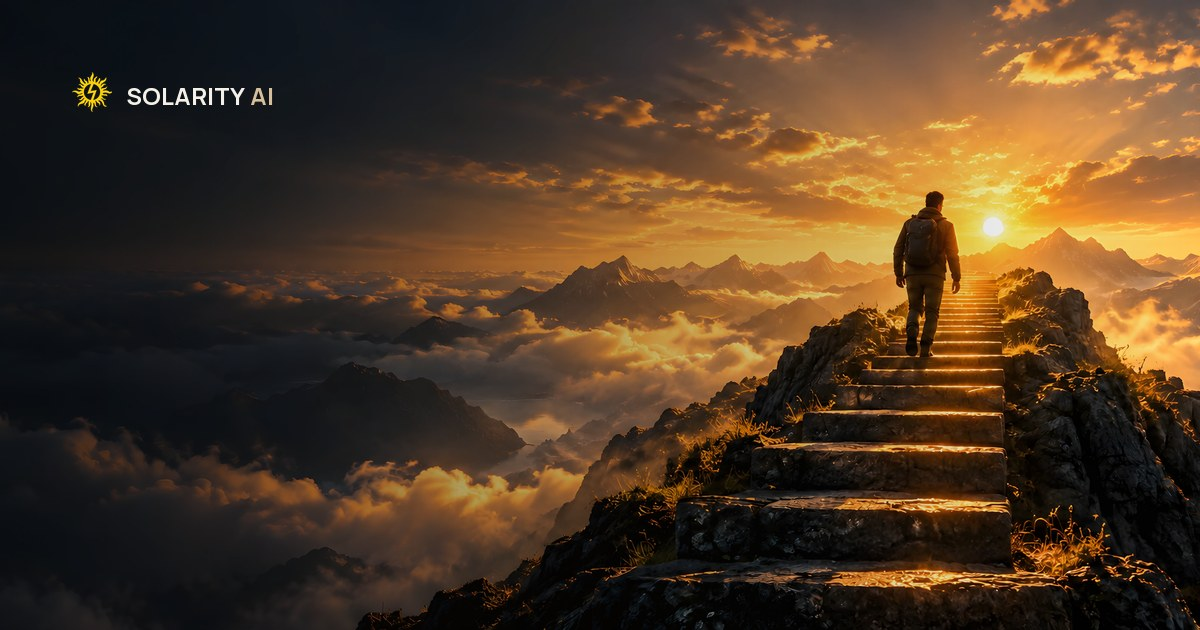
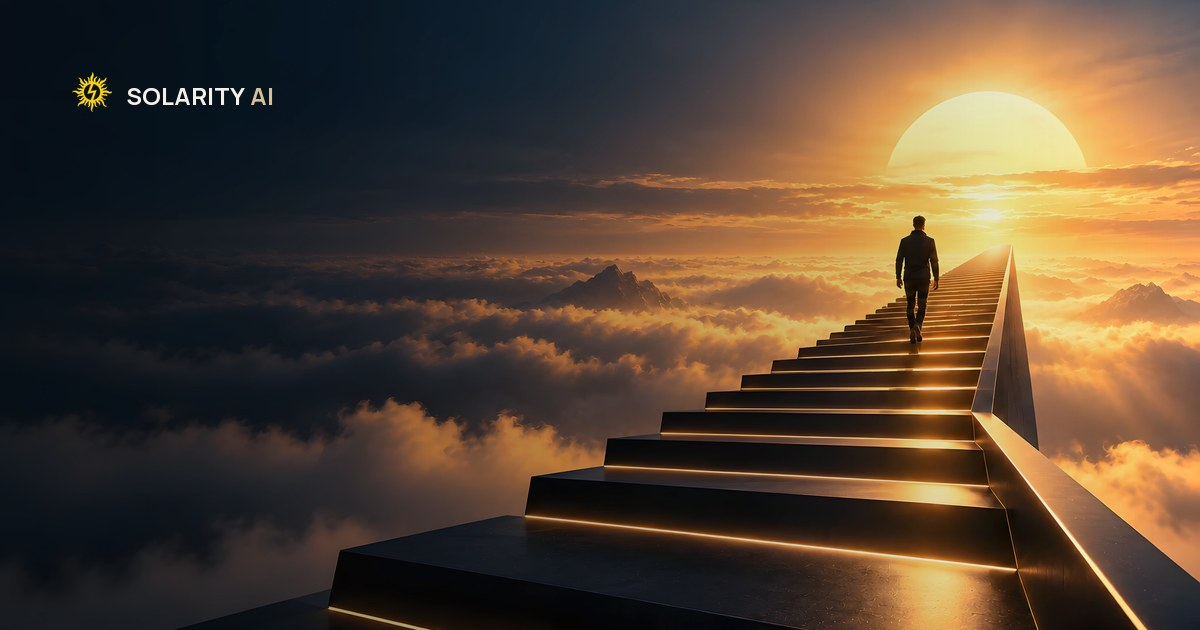
feat: rebuild the default link preview

diff --git a/make_social_images.py b/make_social_images.py
@@ -153,7 +153,7 @@ def portfolio_card(title_lines, kicker) -> Image.Image:
 
 def default_card() -> Image.Image:
     """The approved sunrise at link-preview proportions, with the sun mark; no added text beyond the name."""
-    canvas = cover(asset('solar-ascent.webp'), (W, H), (0.78, 0.42))
+    canvas = cover(asset('stairway-ascent.webp'), (W, H), (0.78, 0.42))
     shade = Image.linear_gradient('L').rotate(-90).resize((W, H)).point(lambda v: int(v * 0.55))
     canvas.paste(Image.new('RGB', (W, H), (12, 9, 6)), (0, 0), shade)
     signature(canvas, (72, 72))
